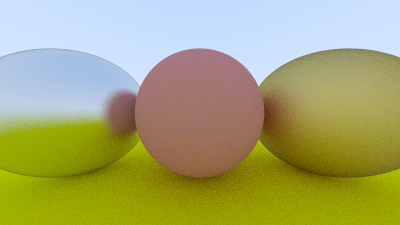
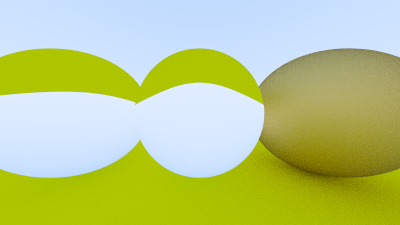
Add dielectric material; Add refracted() method for Vec3 class

diff --git a/include/materials/Dielectric.hpp b/include/materials/Dielectric.hpp
@@ -1,0 +1,33 @@
+#pragma once
+
+#include "Material.hpp"
+
+class Dielectric : public Material {
+ public:
+  Dielectric(double refractiveIndex) : refractIndex{refractiveIndex} {}
+
+  virtual bool scatter(
+    const Ray &rayIn, const HitRecord &record, Vec3 &attenuation, Ray &rayOut
+  ) const override {
+    double refractIndexFrom;
+    double refractIndexTo;
+    if (record.hitFrontFace) {
+      refractIndexFrom = 1;
+      refractIndexTo = refractIndex;
+    }
+    else {
+      refractIndexFrom = refractIndex;
+      refractIndexTo = 1;
+    }
+
+    Vec3 unitDirection = rayIn.direction.normalized();
+    Vec3 refracted = unitDirection.refracted(record.faceNormal, refractIndexFrom, refractIndexTo);
+
+    attenuation = Vec3{1, 1, 1};
+    rayOut = Ray{record.hitPoint, refracted};
+    return true;
+  }
+
+ private:
+  double refractIndex;
+};

diff --git a/src/Main.cpp b/src/Main.cpp
@@ -15,6 +15,7 @@
 #include "materials/Material.hpp"
 #include "materials/Lambertian.hpp"
 #include "materials/Metal.hpp"
+#include "materials/Dielectric.hpp"
 
 #include <iostream>
 #include <filesystem>
@@ -53,8 +54,8 @@ HittableList createWorld() {
   HittableList world;
 
   auto groundMat = std::make_shared<Lambertian>(Vec3{0.8, 0.8, 0});
-  auto centerMat = std::make_shared<Lambertian>(Vec3{0.7, 0.3, 0.3});
-  auto leftMat = std::make_shared<Metal>(Vec3{0.8, 0.8, 0.8}, 0.3);
+  auto centerMat = std::make_shared<Dielectric>(1.5);
+  auto leftMat = std::make_shared<Dielectric>(1.5);
   auto rightMat = std::make_shared<Metal>(Vec3{0.8, 0.6, 0.2}, 1);
 
   auto groundSphere = std::make_shared<Sphere>(Vec3{0, -100.5, -1}, 100, groundMat);

diff --git a/src/Vec3.cpp b/src/Vec3.cpp
@@ -74,6 +74,14 @@ Vec3 Vec3::reflected(const Vec3 &normal) const {
   return v - 2*v.dot(normal)*normal;
 }
 
+Vec3 Vec3::refracted(const Vec3 &normal, double refractIndexFrom, double refractIndexTo) const {
+  auto &rayIn = *this;
+  auto cosTheta = fmin((-rayIn).dot(normal), 1);
+  Vec3 rayOutPerp = (refractIndexFrom / refractIndexTo) * (rayIn + cosTheta*normal);
+  Vec3 rayOutParallel = -sqrt(fabs(1 - rayOutPerp.lengthSq())) * normal;
+  return rayOutPerp + rayOutParallel;
+}
+
 bool Vec3::approxEquals(const Vec3 &v, double error) const {
   bool xApproxEqual = std::abs(x - v.x) <= error;
   bool yApproxEqual = std::abs(y - v.y) <= error;

diff --git a/include/Vec3.hpp b/include/Vec3.hpp
@@ -36,6 +36,7 @@ class Vec3 {
   Vec3 normalized() const;
   Vec3 lerp(const Vec3 &target, const double t) const;
   Vec3 reflected(const Vec3 &normal) const;
+  Vec3 refracted(const Vec3 &normal, double refractIndexFrom, double refractIndexTo) const;
   bool approxEquals(const Vec3 &v, double error = 0.0001) const;
 
   Vec3 &operator=(const Vec3 &v);
